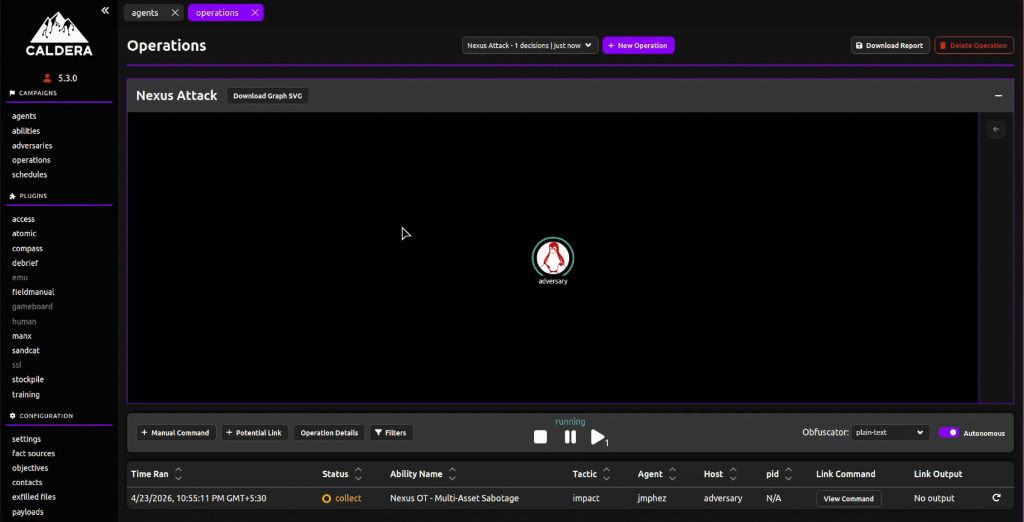
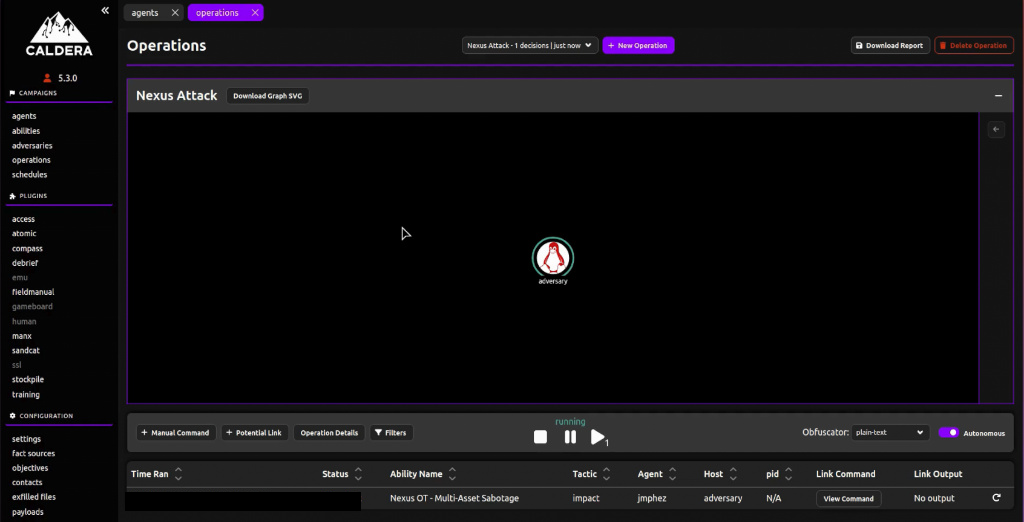
Privacy update: swapped disruption image and redacted timezone from CALDERA screenshot.

Changed region(s): [[0.125, 0.9195, 0.375, 0.9808]]

diff --git a/README.md b/README.md
@@ -47,7 +47,7 @@ Real-time traffic analysis and attack detection are visualized through integrate
 ### Physical Disruption Simulation
 The system captures the physical impact of cyber-attacks on industrial processes, such as abnormal pressure spikes or actuator manipulation.
 
-![Physical Disruption](docs/images/physical_disruption_2.png)
+![Physical Disruption](docs/images/physical_disruption_1.png)
 
 ## 📁 Project Structure
 
